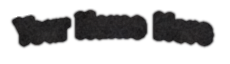
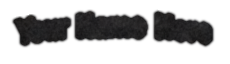
Swap in the gear picture that reads White Meadow Lake
The new picture's patch, sign and truck say White Meadow Lake Fire Dept.
The typed-name lettering and the painted-out name panel are refitted to it.

Claude-Session: https://claude.ai/code/session_019Zn1bvQPc5hyV3hXak5J4N

diff --git a/data/site.js b/data/site.js
@@ -130,10 +130,10 @@ window.SITE = {
        company's own gear. `name` and `zoom` are measured on this picture: see the template README. */
     gear: {
       photo: "images/gear/turnout-gear.jpg", width: 1448, height: 1086,
-      alt: "Two sets of tan turnout gear on stands in an apparatus bay, one seen from the front and one from the back. The back of the coat has a name panel across the shoulders.",
+      alt: "Two sets of tan turnout gear on stands in an apparatus bay, one seen from the front and one from the back. The back of the coat has a name panel across the shoulders and a red cross patch lettered White Meadow Lake Fire Dept.",
       caption: "A computer-generated picture, for layout only. A photo of the company's own gear goes here.",
       namedCaption: "{name}, across the shoulders. A computer-generated picture, for layout only.",
-      name: { blank: "images/gear/name-panel.png", box: [878, 136, 230, 64], arc: "M880 183.5 Q990 158.9 1100 183.5", size: 30, max: 186, color: "#DBC3A7" },
+      name: { blank: "images/gear/name-panel.png", box: [878, 134, 230, 64], arc: "M880 178.4 Q990 161.4 1100 178.4", size: 30, max: 186, color: "#D8C4B1" },
       zoom: [670, 50, 640, 480]
     },
     cta: { label: "Ask about joining", topic: "I want to volunteer" },

diff --git a/README.md b/README.md
@@ -37,7 +37,7 @@ The nine partner businesses are invented. They are the sample sponsors from the 
 
 Three photos are in, all supplied from an image search at thumbnail size (about 330 x 220), with their origin unconfirmed: the firehouse, Engine 51 and the lettering on a cab door. They are shown small for that reason: the firehouse sits in a frame under the headline (`hero.framed`), where a full-size photo would fill the whole top of the page (`hero.photo`). Replace them with the company's own full-size originals.
 
-The gear picture in the Join section is computer-generated, and its caption says so. Its back patch reads "Meadow Lake Fire Dept." (no "White") and its sign and truck say "Fire Department", where the company is "Fire Company 5". Regenerate it, or replace it with a photo of the company's own gear.
+The gear picture in the Join section is computer-generated, and its caption says so. Its patch, sign and truck read "White Meadow Lake Fire Dept."; the company's own truck is lettered "White Meadow Lake Co. 5", and the patch is not the company's real one. Replace the picture with a photo of the company's own gear when there is one.
 
 Left out on purpose:
 
